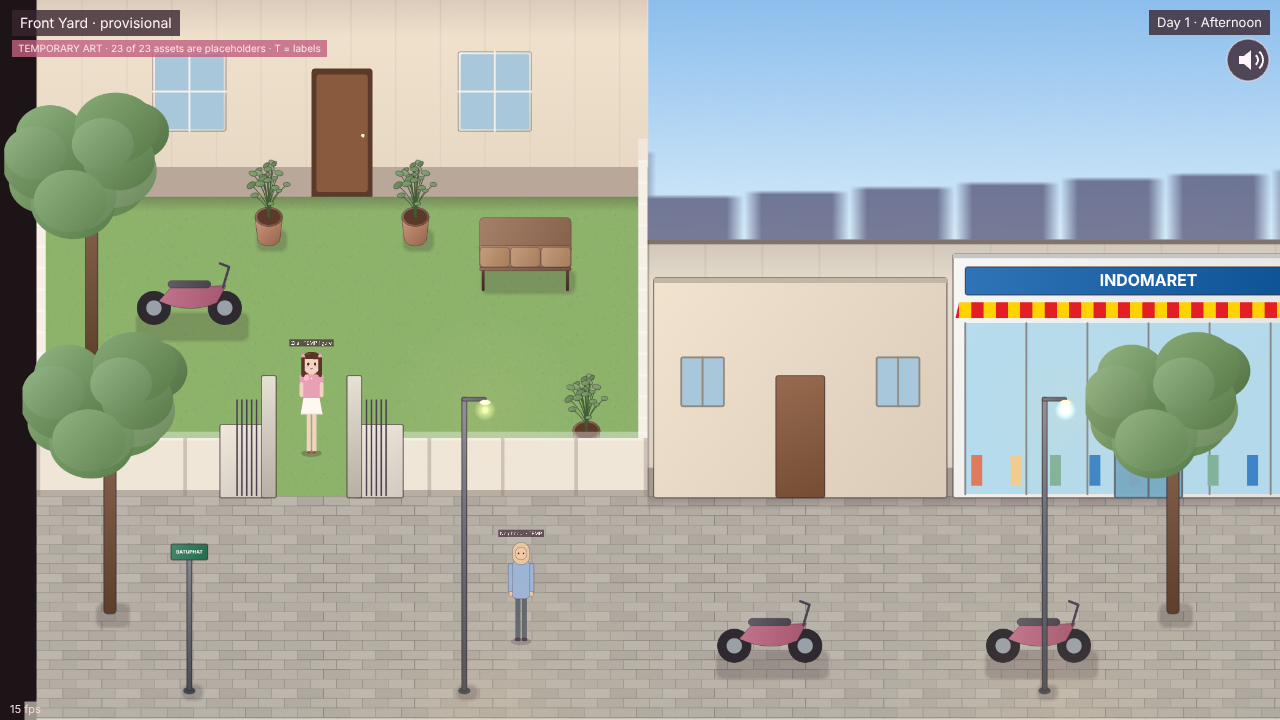
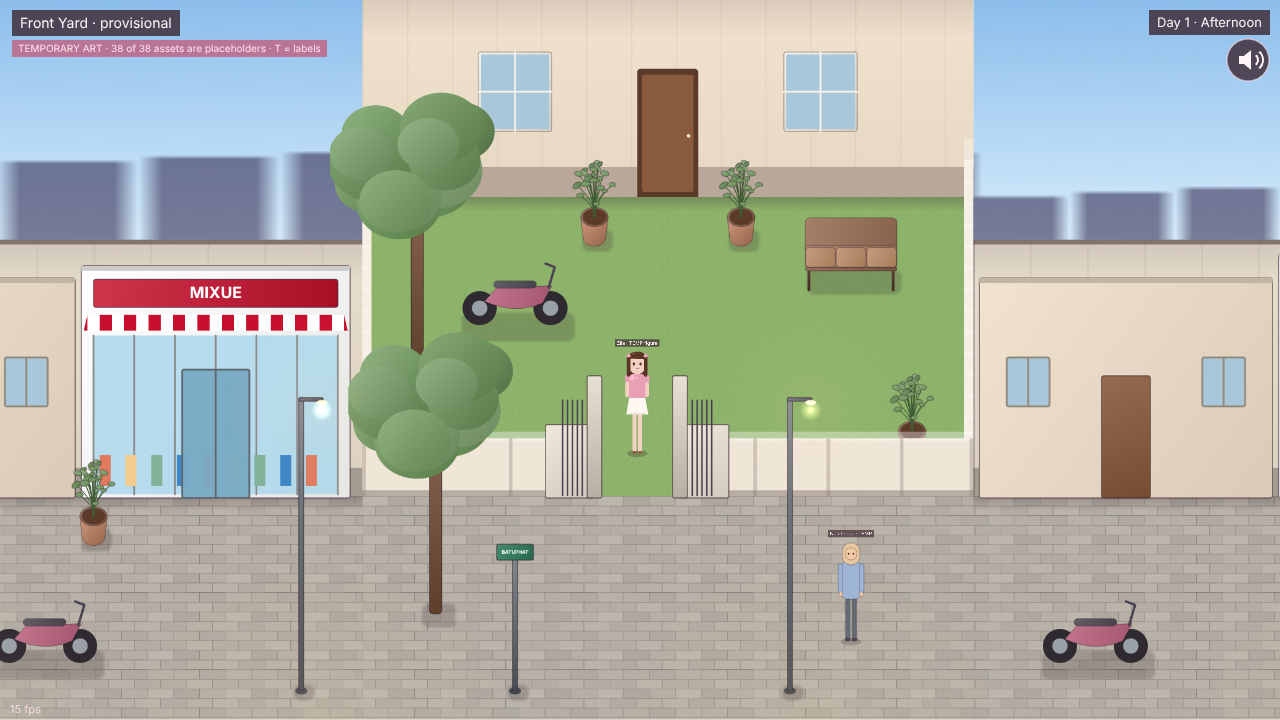
World 01 P5 Phase B: west block joins the Batuphat outdoor region; view culling; evidence
- batuphat_west (park, becak + driver, warung, Mixue front) is a zone of batuphat_region:
  yard → street → park → Mixue front with no scene change; the west road end stays a
  locked planned border; the city road / centre / Unimal stay separate districts.
- View culling of shell tile quads (only tiles near the camera are drawn): the street
  and the west block measure on par with P4 in the headless proxy.
- Tests: Phase B E2E (walk, Mixue round trip, locked border), region unit tests; legacy
  west-block, NPC and adaptive-resolution tests use region coordinates.
- Docs: P5 roadmap section with the migration table, a layout diagram drawn from data,
  P4 vs P5 screenshots at identical positions, a camera-follow filmstrip + walk log.

Claude-Session: https://claude.ai/code/session_01P67KtqJMN8ARmJbwhSuoYs

diff --git a/tests/e2e/world01-p1.spec.ts b/tests/e2e/world01-p1.spec.ts
@@ -1,5 +1,5 @@
 import { expect, test, type Page } from '@playwright/test';
-import { boot, closeDialogue, press, roomData, state, tapObject, until, useDoor, walkToZone, SHOTS, spawnPos } from './helpers';
+import { boot, closeDialogue, press, roomData, state, tapObject, until, useDoor, walkToZone, SHOTS, spawnPos, zoneOrigin } from './helpers';
 
 /** World 01 continuation: kitchen, west Batuphat block, Mixue, NPC yielding, memory over many transitions. */
 const S = (p: Page): Promise<any> => state(p);
@@ -31,10 +31,13 @@ test.describe('World 01 continuation', () => {
 
   test('west block: from the street, talk to the becak driver, Mixue order loop, back to the same doors', async ({ page, isMobile }) => {
     const errors = await start(page, isMobile, 'batuphat_street');
+    // P5: the west block is part of the same outdoor region — walk west along the street, no transition
+    const starts = (await S(page)).sceneStarts;
     await useDoor(page, isMobile, 'road_west', 'batuphat_west');
-    expect((await S(page)).player).toMatchObject({ x: roomData('batuphat_west').spawns.from_street.x });
+    expect((await S(page)).sceneStarts).toBe(starts);
+    const W = zoneOrigin('batuphat_west');
     // becak driver (NPC dialogue)
-    await page.evaluate(() => (window as any).__ZS.tapWorld(1400, 500)); await until(page, 's.path === 0', 20000);
+    await page.evaluate(([x, y]) => (window as any).__ZS.tapWorld(x, y), [W.x + 1400, W.y + 500]); await until(page, 's.path === 0', 20000);
     await until(page, "s.nearest === 'npc:npc_becak_driver'"); await press(page, isMobile);
     await until(page, 's.modal === true');
     if (!isMobile) await page.screenshot({ path: `${OUT}/desktop-09-west-block-becak.png` });
@@ -47,9 +50,8 @@ test.describe('World 01 continuation', () => {
     await closeDialogue(page, isMobile);
     expect((await S(page)).flagsState['mixue:first_treat']).toBe(true);
     await useDoor(page, isMobile, 'exit', 'batuphat_west');
-    expect((await S(page)).player.x).toBe(roomData('batuphat_west').spawns.from_mixue.x);
+    expect((await S(page)).player).toMatchObject(spawnPos('batuphat_west', 'from_mixue'));
     await useDoor(page, isMobile, 'to_street', 'batuphat_street');
-    expect((await S(page)).player).toMatchObject(spawnPos('batuphat_street', 'from_west'));
     // save → resume after the new maps
     await page.goto('/?fast'); await page.waitForFunction(() => (window as any).__ZS?.state?.());
     const s = await S(page);
@@ -60,13 +62,14 @@ test.describe('World 01 continuation', () => {
 
   test('an NPC standing in a tap-to-move route makes way; Zila arrives', async ({ page, isMobile }) => {
     const errors = await start(page, isMobile, 'batuphat_street');
-    await page.evaluate(() => { const z = (window as any).__ZS; z.teleport(500, 300); z.npcAt('npc_neighbour', 640, 300); });
-    await page.evaluate(() => (window as any).__ZS.tapWorld(900, 300));
+    const o = zoneOrigin('batuphat_street');                                                   // street inside the outdoor region
+    await page.evaluate(([x, y, nx]) => { const z = (window as any).__ZS; z.teleport(x, y); z.npcAt('npc_neighbour', nx, y); }, [o.x + 500, o.y + 300, o.x + 640]);
+    await page.evaluate(([x, y]) => (window as any).__ZS.tapWorld(x, y), [o.x + 900, o.y + 300]);
     await until(page, 's.path === 0', 15000);
     const s = await S(page);
-    expect(Math.hypot(s.player.x - 900, s.player.y - 300)).toBeLessThan(30);
+    expect(Math.hypot(s.player.x - o.x - 900, s.player.y - o.y - 300)).toBeLessThan(30);
     const n = s.npcs.find((x: any) => x.id === 'npc_neighbour');
-    expect(Math.abs(n.y - 300) + Math.abs(n.x - 640)).toBeGreaterThan(30);                  // it stepped aside
+    expect(Math.abs(n.y - o.y - 300) + Math.abs(n.x - o.x - 640)).toBeGreaterThan(30);      // it stepped aside
     expect(errors).toEqual([]);
   });
 

diff --git a/src/scenes/RoomScene.ts b/src/scenes/RoomScene.ts
@@ -81,6 +81,11 @@ export class RoomScene extends Phaser.Scene {
   private seated: Seated | null = null;
   private skies: { img: Phaser.GameObjects.Image; curtains: Phaser.GameObjects.Graphics }[] = [];
   private floorPatches: FloorPatch[] = [];
+  /** View culling (P5): static shell tiles with their render rect; hidden while outside the camera view. */
+  private cullables: { o: Phaser.GameObjects.Image; x0: number; y0: number; x1: number; y1: number }[] = [];
+  private cullAt = { x: NaN, y: NaN, w: 0 };
+  /** Shell tiles drawn in the last frame (tests / perf HUD). */
+  private tilesDrawn = 0;
   private npcs: { data: NpcData; state: NpcState; view: NpcView }[] = [];
   private visited: string[] = [];
   /** Background landmarks inspected in this map visit (debug/tests). */
@@ -141,6 +146,7 @@ export class RoomScene extends Phaser.Scene {
     if (this.room.data.kind === 'exterior') this.addExteriorSky();
     if (this.room.fences?.length) this.drawFences();
     this.drawProps();
+    this.collectCullables();
     this.spawnNpcs();
     this.floorPatches = floorPatches(this.room.props);
     this.glow = undefined; this.doorGlow = undefined; this.glowTarget = null;
@@ -376,7 +382,33 @@ export class RoomScene extends Phaser.Scene {
   }
 
   // ---------------------------------------------------------------- loop
+  /**
+   * Large outdoor regions hold hundreds of ground/wall tile quads; only the ones near the view are drawn.
+   * The rects are fixed (tiles never move), so the check is cheap and only runs when the view moved.
+   */
+  private collectCullables(): void {
+    this.cullables = [];
+    for (const o of this.children.list) {
+      if (o.name !== 'shell-tile') continue;
+      const t = o as Phaser.GameObjects.Image, crop = (t as unknown as { _crop: { width: number; height: number } })._crop;
+      const w = (t.isCropped ? crop.width : t.frame.width) * t.scaleX, h = (t.isCropped ? crop.height : t.frame.height) * t.scaleY;
+      this.cullables.push({ o: t, x0: t.x, y0: t.y, x1: t.x + w, y1: t.y + h });
+    }
+    this.cullAt = { x: NaN, y: NaN, w: 0 };
+  }
+
+  private cullView(): void {
+    const v = this.cameras.main.worldView, m = 160;
+    if (Math.abs(v.x - this.cullAt.x) < 48 && Math.abs(v.y - this.cullAt.y) < 48 && v.width === this.cullAt.w) return;
+    this.cullAt = { x: v.x, y: v.y, w: v.width };
+    const x0 = v.x - m, y0 = v.y - m, x1 = v.right + m, y1 = v.bottom + m;
+    let n = 0;
+    for (const c of this.cullables) { const on = c.x1 > x0 && c.x0 < x1 && c.y1 > y0 && c.y0 < y1; c.o.visible = on; if (on) n++; }
+    this.tilesDrawn = n;
+  }
+
   override update(_time: number, deltaMs: number): void {
+    this.cullView();
     if (this.transitioning) return;
     if (this.input$.modal) { this.game.events.emit('prompt', null); this.setHighlight(null); return; } // dialogue open: UI owns input
     // Real elapsed time, not Phaser's smoothed delta (which under-reports when frames drop and makes the
@@ -904,6 +936,7 @@ export class RoomScene extends Phaser.Scene {
         zone: this.zone,
         zones: this.room.zones?.map((z) => ({ id: z.id, x: z.x, y: z.y, w: z.w, h: z.h })) ?? null,
         bbox: this.room.bbox ?? null,
+        tiles: { total: this.cullables.length, drawn: this.tilesDrawn },
         sceneStarts: SCENE_STARTS,
         camera: { scrollX: Math.round(this.cameras.main.scrollX), scrollY: Math.round(this.cameras.main.scrollY), zoom: this.cameras.main.zoom, viewW: Math.round(this.cameras.main.worldView.width), viewH: Math.round(this.cameras.main.worldView.height) },
         inspectables: this.room.props.filter((p) => p.inspect).map((p) => ({ key: p.key, name: p.inspect!.name, inspected: this.inspected.has(p.key) })),

diff --git a/tests/e2e/world01-p5.spec.ts b/tests/e2e/world01-p5.spec.ts
@@ -1,5 +1,5 @@
 import { expect, test, type Page } from '@playwright/test';
-import { boot, closeDialogue, holdUntil, roomData, state, until, useDoor } from './helpers';
+import { boot, closeDialogue, holdUntil, press, roomData, spawnPos, state, until, useDoor } from './helpers';
 
 /**
  * P5 — outdoor region. Zila's front yard and Batuphat street are ONE exterior map (`batuphat_region`): from the
@@ -21,7 +21,7 @@ async function walkTo(page: Page, isMobile: boolean, x: number, y: number): Prom
   }
 }
 
-test.describe('P5 outdoor region (Phase A: yard + Batuphat street)', () => {
+test.describe('P5 outdoor region (yard + Batuphat street + west block)', () => {
   test.setTimeout(240_000);
 
   test('house front door → just outside the facade, then doorstep → yard → gate → street → Indomaret front with zero scene restarts and a scrolling camera', async ({ page, isMobile }) => {
@@ -134,5 +134,39 @@ test.describe('P5 outdoor region (Phase A: yard + Batuphat street)', () => {
     expect(s.vars.day).toBe(3);
     expect(s.visited).toEqual(expect.arrayContaining(['front_yard', 'batuphat_street', 'minimarket', REGION]));
     expect(s.flagsState['light:zila_bedroom:prop_lamp_zila#17']).toBe(true);
+  });
+
+  test('Phase B: yard → street → park (becak) → Mixue front on the same map; Mixue interior returns to its door; the west road end stays locked', async ({ page, isMobile }) => {
+    const errors = await boot(page, '?fresh&fast&room=front_yard');
+    await page.evaluate(() => (window as any).__ZS.setVars({ phase: 'afternoon' }));
+    const s0 = await S(page);
+    const W = { x: 0, y: 700 };                                                                   // west block zone origin
+    await walkTo(page, isMobile, STREET.x + 450, STREET.y + 200);                                  // out through the gate
+    await walkTo(page, isMobile, W.x + 1250, W.y + 330);                                           // west along the street into the park
+    let s = await S(page);
+    expect(s.zone).toBe('batuphat_west');
+    await page.screenshot({ path: `${OUT}/${isMobile ? 'android' : 'desktop'}-04-park-becak.png` });
+    const mixue = await page.evaluate(() => (window as any).__ZS.doorSpot('mixue_door'));
+    await walkTo(page, isMobile, mixue.x, mixue.y);
+    s = await S(page);
+    await page.screenshot({ path: `${OUT}/${isMobile ? 'android' : 'desktop'}-05-mixue-front.png` });
+    expect(s.sceneStarts).toBe(s0.sceneStarts);
+    expect(s.nearest).toBe('door:mixue_door');
+    expect(s0.camera.scrollX - s.camera.scrollX).toBeGreaterThan(600);                            // the view travelled west with her
+    expect(s.visited).toEqual(expect.arrayContaining(['front_yard', 'batuphat_street', 'batuphat_west']));
+    await useDoor(page, isMobile, 'mixue_door', 'mixue');
+    await useDoor(page, isMobile, 'exit', REGION);
+    expect((await S(page)).player).toMatchObject(spawnPos('batuphat_west', 'from_mixue'));
+    // the west road end is a locked planned border (batuphat_beyond), not a way out
+    const end = await page.evaluate(() => (window as any).__ZS.doorSpot('road_further'));
+    await walkTo(page, isMobile, end.x, end.y);
+    await until(page, "s.nearest === 'door:road_further'");
+    const before = await S(page);
+    await press(page, isMobile);
+    await page.waitForTimeout(600);
+    const after = await S(page);
+    expect(after.sceneStarts).toBe(before.sceneStarts); expect(after.roomId).toBe(REGION);
+    expect(after.player.x).toBeGreaterThanOrEqual(0);
+    expect(errors).toEqual([]);
   });
 });

diff --git a/tests/unit/regions.test.ts b/tests/unit/regions.test.ts
@@ -14,7 +14,7 @@ const origin = (room: string) => def.zones.find((z) => z.room === room)!;
 const at = (room: string, spawn: string) => region.data.spawns[`${room}.${spawn}`]!;
 const door = (id: string) => region.anchors.find((a) => a.key === `door:${id}`)!;
 
-describe('outdoor region (P5): yard + Batuphat street', () => {
+describe('outdoor region (P5): yard + Batuphat street + west block', () => {
   it('is one exterior map with zones offset in x AND y', () => {
     expect(def.kind).toBe('region');
     expect(region.data.kind).toBe('exterior');
@@ -23,11 +23,12 @@ describe('outdoor region (P5): yard + Batuphat street', () => {
   });
 
   it('doorstep → yard → gate → street → Indomaret / workplace / city road is one walkable path, no door between zones', () => {
-    for (const goal of [door('minimarket_door'), door('workplace_door'), door('road_east'), at('batuphat_street', 'from_west')]) {
+    for (const goal of [door('minimarket_door'), door('workplace_door'), door('road_east'), door('mixue_door'), at('batuphat_west', 'default'), at('batuphat_west', 'from_mixue')]) {
       expect(grid.findPath(at('front_yard', 'from_house'), goal), `${goal.x},${goal.y}`).not.toBeNull();
     }
     const ids = region.data.doors.map((d) => d.id);
     expect(ids).not.toContain('gate'); expect(ids).not.toContain('home_gate');          // walked through, not used
+    expect(ids).not.toContain('road_west'); expect(ids).not.toContain('to_street');
     expect(ids).toEqual(expect.arrayContaining(['house_door', 'minimarket_door', 'workplace_door', 'road_east']));
     expect(region.data.doors.some((d) => region.zones.some((z) => z.id === d.to.room))).toBe(false);
   });
@@ -47,6 +48,15 @@ describe('outdoor region (P5): yard + Batuphat street', () => {
     for (let i = 0; i < 12; i++) r = moveWithCollision(r, { x: 0, y: -12 }, R, region.solids);
     expect(r.y).toBeGreaterThanOrEqual(s.y!);
     expect(grid.standable({ x: s.x + 1500, y: s.y! - 100 })).toBe(false);
+  });
+
+  it('the west road end stays a locked planned border: no doorway gap, cannot walk off the region', () => {
+    const d = region.data.doors.find((x) => x.id === 'road_further')!;
+    expect(d.locked).toBeTruthy(); expect(d.to.room).toBe('batuphat_beyond');
+    let p = { x: 40, y: d.y + d.h / 2 };
+    for (let i = 0; i < 12; i++) p = moveWithCollision(p, { x: -12, y: 0 }, R, region.solids);
+    expect(p.x).toBeGreaterThanOrEqual(R - 0.5);
+    expect(door('road_further').payload).toEqual({ locked: expect.any(String) });
   });
 
   it('back walls are drawn only where no zone continues north (the street row opens onto the yard)', () => {

diff --git a/tests/e2e/helpers.ts b/tests/e2e/helpers.ts
@@ -34,16 +34,20 @@ export const SHOTS = 'docs/reviews/foundation';
 import { readdirSync, readFileSync } from 'node:fs';
 /** Room data straight from the game's JSON, so tests follow layout changes instead of hard-coding them. */
 export function roomData(id: string): any { return JSON.parse(readFileSync(`src/data/rooms/${id}.json`, 'utf8')); }
-/** A legacy room's spawn in the coordinates of the map that now contains it (P4 floors, P5 outdoor regions). */
-export function spawnPos(roomId: string, spawn: string): { x: number; y: number } {
-  const sp = roomData(roomId).spawns[spawn];
+/** Origin of a legacy room inside the floor/region that now contains it ({0,0} if it is a map of its own). */
+export function zoneOrigin(roomId: string): { x: number; y: number } {
   for (const dir of ['src/data/floors', 'src/data/regions']) {
     for (const f of readdirSync(dir)) {
       const z = JSON.parse(readFileSync(`${dir}/${f}`, 'utf8')).zones.find((q: any) => q.room === roomId);
-      if (z) return { x: sp.x + z.x, y: sp.y + (z.y ?? 0) };
+      if (z) return { x: z.x, y: z.y ?? 0 };
     }
   }
-  return { x: sp.x, y: sp.y };
+  return { x: 0, y: 0 };
+}
+/** A legacy room's spawn in the coordinates of the map that now contains it (P4 floors, P5 outdoor regions). */
+export function spawnPos(roomId: string, spawn: string): { x: number; y: number } {
+  const sp = roomData(roomId).spawns[spawn], o = zoneOrigin(roomId);
+  return { x: sp.x + o.x, y: sp.y + o.y };
 }
 export function propEntry(roomId: string, assetId: string): any { return roomData(roomId).props.find((p: any) => p.assetId === assetId); }
 export const press = async (page: Page, isMobile: boolean) => {

diff --git a/tests/e2e/world01-p2.spec.ts b/tests/e2e/world01-p2.spec.ts
@@ -1,5 +1,5 @@
 import { expect, test, type Page } from '@playwright/test';
-import { boot, closeDialogue, dimsumShift, state, until, useDoor } from './helpers';
+import { boot, closeDialogue, dimsumShift, state, until, useDoor, zoneOrigin } from './helpers';
 
 const S = (p: Page): Promise<any> => state(p);
 const OUT = 'docs/reviews/world01';
@@ -31,9 +31,10 @@ test.describe('World 01 P2', () => {
     await until(page, 's.renderScale.scale < 2', 40_000);                // headless software rendering is slow → auto step-down
     const scaled = (await S(page)).renderScale.scale;
     // still playable after the change: tap-to-move arrives
-    await page.evaluate(() => { const z = (window as any).__ZS; z.teleport(600, 300); z.tapWorld(900, 300); });
+    const o = zoneOrigin('batuphat_street');                              // P5: the street is a zone of the outdoor region
+    await page.evaluate(([x0, y0]) => { const z = (window as any).__ZS; z.teleport(x0 + 600, y0 + 300); z.tapWorld(x0 + 900, y0 + 300); }, [o.x, o.y]);
     await until(page, 's.path === 0', 15000);
-    expect(Math.abs((await S(page)).player.x - 900)).toBeLessThan(30);
+    expect(Math.abs((await S(page)).player.x - o.x - 900)).toBeLessThan(30);
     // player picks Sharp in the settings panel → full resolution, remembered after reload
     const g0 = await page.evaluate(() => (window as any).__ZS_UI.sound());
     await page.touchscreen.tap(g0.button.x, g0.button.y);

diff --git a/docs/production/WORLD_01_ROADMAP.md b/docs/production/WORLD_01_ROADMAP.md
@@ -28,9 +28,9 @@ The source of truth for the registry is [`src/data/world/world01.json`](../../sr
 | `upper_hall` | Zila's home | interior | ✅ | north → bedroom; east stairs → living_room | story-critical · TEMP |
 | `living_room` | Zila's home | interior | ✅ provisional | north stairs → hall; south → yard; **west → kitchen** | story-critical · TEMP |
 | `kitchen` | Zila's home | interior | ✅ provisional (new) | east → living room | story-critical · breakfast loop and tea |
-| `front_yard` | Zila's home | exterior | ✅ provisional | north → living room; south gate → street | story-critical |
-| `batuphat_street` | Batuphat | exterior | ✅ provisional | home gate, Indomaret, workplace; **west → west block**; east road 🔒 | road drawn as a ground zone (no overdraw) |
-| `batuphat_west` | Batuphat | exterior | ✅ provisional (new) | east → street; Mixue; west road 🔒 | homes and warung kopi (**background**), small park, **becak motor** + driver, child NPC |
+| `front_yard` | Zila's home | exterior | ✅ provisional · **zone of `batuphat_region` (P5)** | north → living room; south gate → street (walk, no transition) | story-critical |
+| `batuphat_street` | Batuphat | exterior | ✅ provisional · **zone of `batuphat_region` (P5)** | home gate, Indomaret, workplace; west block (walk); east road → Lhokseumawe road | road drawn as a ground zone (no overdraw) |
+| `batuphat_west` | Batuphat | exterior | ✅ provisional · **zone of `batuphat_region` (P5)** | street (walk); Mixue; west road 🔒 | homes and warung kopi (**background**), small park, **becak motor** + driver, child NPC |
 | `minimarket` (**Indomaret**) | Batuphat | interior | ✅ provisional | south → street | **enterable** · real-world reference: Indomaret (TEMP colours and text only) · ⚠ brand review |
 | `mixue` | Batuphat | interior | ✅ provisional (new) | south → west block | **enterable** · real-world reference: Mixue (TEMP colours and text only) · ⚠ brand review |
 | `workplace` | Batuphat | interior | ✅ **story-configurable** (variants: **dimsum shop (active)**, office) | south → street | story-critical · no real name or layout; one registry line switches the variant |
@@ -98,6 +98,58 @@ At the default zoom, both rooms of each house floor are visible at once. When zo
   - the Indomaret back room;
   - any multi-room shop;
   - joining the front yard with the street into one continuous outdoor area.
+
+## P5 — outdoor region: one walkable Batuphat district (Issue #32)
+**Goal:** the outside feels like one place. Zila leaves the house and walks from her doorstep through the yard, out of the gate, along the street past Indomaret and the workplace, west to the park, the becak and Mixue — **one map, no fade, no scene restart**, with the camera following her over a district larger than the screen. Interiors (house, Indomaret, Mixue, workplace) and distant districts (Lhokseumawe road → city → Unimal) keep proper transitions. Camera feel and map rules follow large farm/town maps in top-down life sims; art, code and layout are ZsRoom's own (HD 2D illustrated, OG Art Bible).
+
+![Region layout](../reviews/world01-p5/region-layout.png)
+
+### How it works (reusable, data-driven: `src/world/region.ts`, `src/data/regions/<id>.json`)
+- **Zones at (x, y) offsets.** A region lists existing room files as zones. Local coordinates + zone origin = region coordinates. Unlike P4 floors (X-only, shared north wall), zones may sit **north/south** of each other.
+- **Open boundaries.** Where two zones touch there is no wall, cap, threshold or trigger: the ground simply continues. Doors that led from one zone to another (yard gate, street ↔ west block) are dropped.
+- **Real collisions.** The **void** (inside the region's bounding box, outside every zone) is solid. **Fences** (`fences` in the region file) are low walls with collision and are depth-sorted (Zila walks behind or in front). The yard gate is a gap in the front fence.
+- **Doors to other maps** on the outer edge keep a threshold gap and a stopper, exactly like a plain room. North doors stay recesses in the zone's back wall. Locked borders (west road → `batuphat_beyond`) stay solid with their message.
+- **Rendering.** Each zone's ground and back wall are drawn at its offset. A back wall (building row, house facade) is drawn only where no zone continues north of it (`wallGaps`): the street's shop row opens onto the yard. Sky fills the space above each exposed wall run, so there are no dark seams. No double-rendered ground.
+- **Zones keep their identity:** HUD title, ambience, `onEnter` events, visited list, NPC schedules and per-zone light flags (`light:<room>:<prop>`). Prop keys of non-primary zones are prefixed (`batuphat_street/…`).
+- **Camera:** smooth follow with look-ahead, clamped gently to the region's box. The district is never auto-fitted (it is ~3× wider than the desktop view); manual zoom still works.
+- **View culling (measured):** the region has ~550 ground/wall tile quads; only those near the view are drawn (`state().tiles`).
+
+### Migration table — legacy map / spawn ids → region coordinates
+Saves need no version bump: a saved `roomId` naming a zone resolves to `batuphat_region`; the position is offset by the zone origin, and content that moved is remapped (`legacy` in the region file). Doors in interiors (`living_room.front_door`, shop exits, the city road) still name the old ids and resolve the same way.
+
+| Legacy map | Zone origin (x, y) | Legacy spawn → region position | Content moves (x range → shift) |
+|---|---|---|---|
+| `front_yard` | (2400, 0) | `from_house` (500, 60) → **(2900, 60)** just outside the house door · `default` (500, 350) → (2900, 350) · `from_street` (500, 640) → (2900, 640) | gate moved 50 cm west to line up with the street gate |
+| `batuphat_street` | (2400, 700) | `from_home` (450, 60) → (2850, 760) · `from_minimarket` **(1820, 60)** → (4220, 760) · `from_workplace` **(2440, 60)** → (4840, 760) · `from_west` (60, 610) → (2460, 1310) · `from_lhokseumawe_road` (2740, 610) → (5140, 1310) | Indomaret frontage 1100–1740 → **+400**; workplace frontage 1970–2530 → **+190** (room for the yard); neighbour house 850 → 1250 |
+| `batuphat_west` | (0, 700) | `default` (900, 420) → (900, 1120) · `from_mixue` (2160, 60) → (2160, 760) · `from_street` (2340, 610) → (2340, 1310) | none |
+| `minimarket`, `mixue`, `workplace`, `lhokseumawe_road`, … | separate maps | unchanged ids (`minimarket` kept) | — |
+
+### Phases
+- **Phase A** (commit `bc023e3`): the compositor + yard and street as one region. Tested first; legacy route tests now walk through the gate.
+- **Phase B:** the west block joined the same region (park, becak + driver, warung, Mixue front; west road end locked). The city road, city centre and Unimal remain larger **separate districts** reached through the east road (purposeful boundary); no streaming needed at this size.
+
+### Evidence (`docs/reviews/world01-p5/`)
+- `region-layout.png`: layout diagram drawn from the region data (`node scripts/region-diagram.mjs`).
+- `{desktop,android}-1N-<spot>-p4.png` vs `-p5.png`: the same character position in P4 (separate maps) and P5 (one region), same viewport, default wide zoom (`scripts/compare-p4-p5.cjs`).
+- `desktop-20-camera-follow-filmstrip.png` + `follow-walk-log.json`: one continuous walk from the yard through the gate and east along the street. `sceneStarts` stays 1 for all 82 samples, while the camera scroll moves 2210 → 3572 with Zila's world x: real follow, not a static full-district framing.
+- `{desktop,android}-0N-*.png`: E2E captures (doorstep, yard gate, Indomaret front, park and becak, Mixue front).
+
+### Performance (headless software proxy, interleaved, median of 3, afternoon — NOT device results)
+| Spot | Desktop P4 | Desktop P5 | Emulated phone P4 | Emulated phone P5 |
+|---|---|---|---|---|
+| Front yard | 28.3 fps | 13.5 fps | 8.5 fps | 6.8 fps |
+| Street | 14.3 fps | 13.8 fps | 6.3 fps | 6.0 fps |
+| West block (park) | 13.8 fps | 13.5 fps | 6.3 fps | 6.3 fps |
+
+- **The yard costs what the street costs.** In P4 the yard was a small, isolated map; in P5 the street, shops and NPCs are visible from it, so it renders like a street view.
+- **View culling added:** without it, P5 was 10–15 % below P4 on the street. The region has 546 tile quads; only those near the view are drawn.
+- **Physical Samsung Galaxy A05 benchmark still needed:** open the preview with `?fresh&bench`. Region streaming or chunking is not needed at this size (52 × 15 m); revisit only if device numbers ask for it.
+- Adaptive render resolution and the Display setting are unchanged.
+
+### Limits
+- The layout is provisional. Frontages moved east to make room for the yard; no real geography is implied.
+- The city road, city centre and Unimal remain separate maps by design (purposeful district boundary).
+- All TEMP art is unchanged; final art is Codex's track.
 
 ## P3 — Lhokseumawe city, Unimal, inspectable background (Issue #23)
 **Playable first, visual refinement later.** The topology is **fictionalised**: it is not a claim about real streets or distances.
